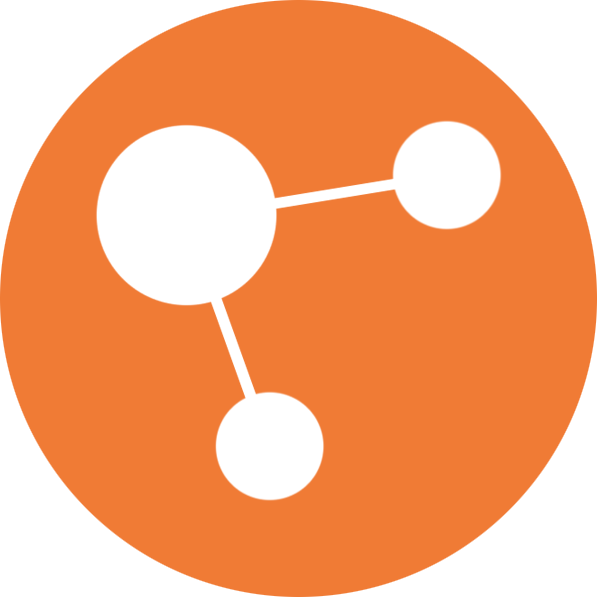
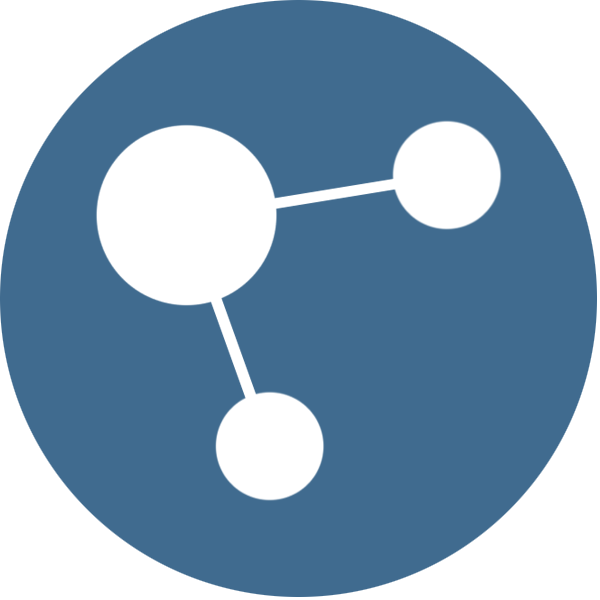
Switch primary color

diff --git a/src/style/_colors.scss b/src/style/_colors.scss
@@ -2,7 +2,7 @@
 // Base colors
 // ============================================================================
 
-$brand-primary: #f07b35;
+$brand-primary: #406b8f;
 
 // ============================================================================
 // Roles
